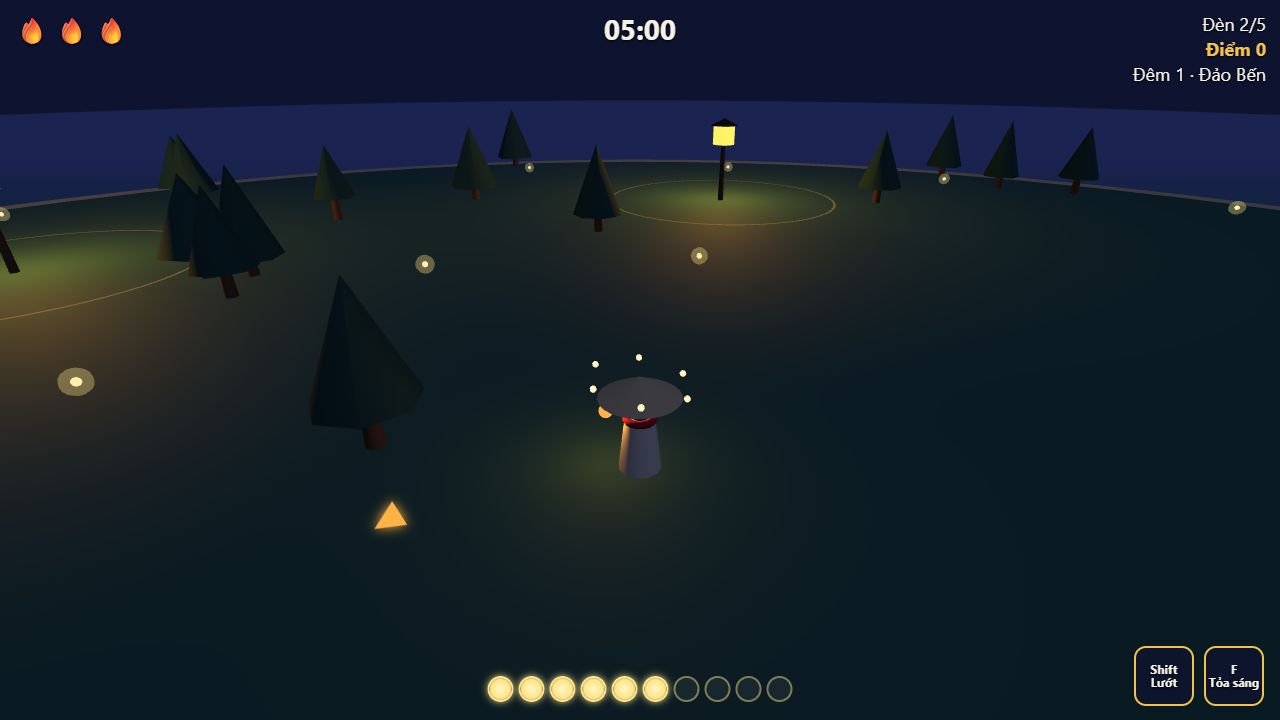
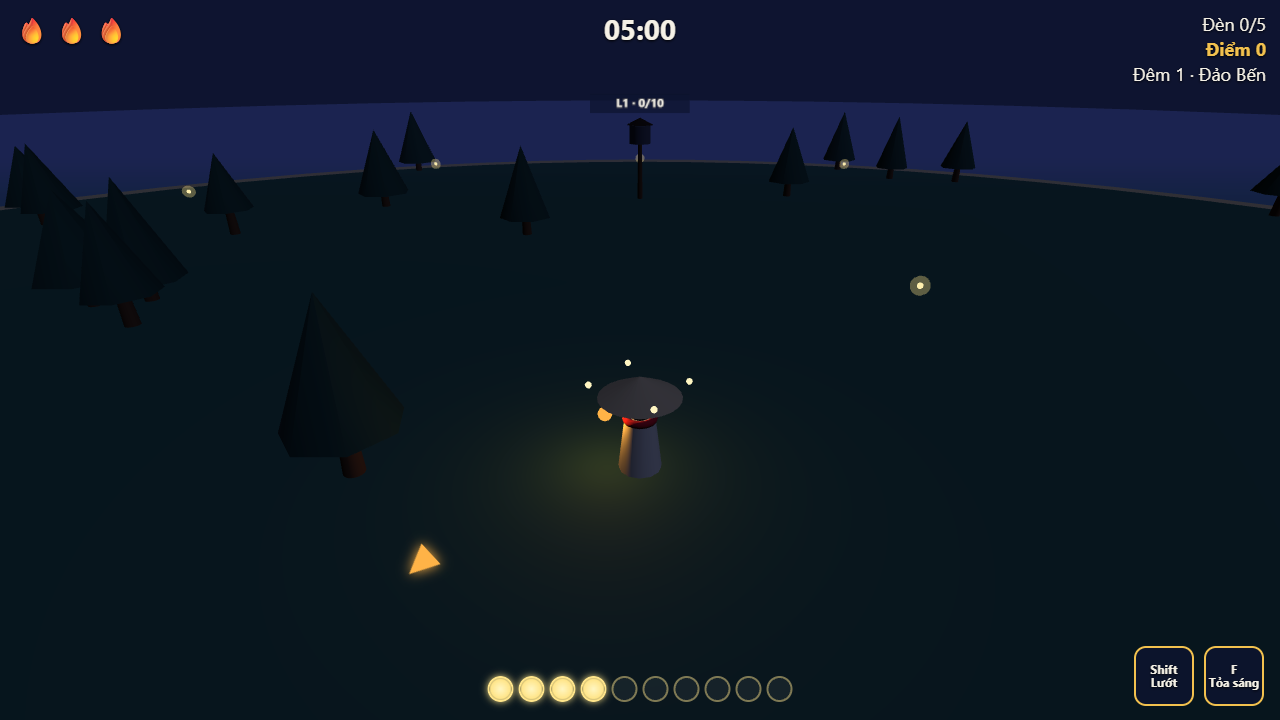
Docs: board Phase 2 cross-check, palette + camera fixes, refreshed screenshots

diff --git a/docs/notes/phase-2.md b/docs/notes/phase-2.md
@@ -92,3 +92,9 @@
 - **Sửa:** quy tắc thuần `src/game/lanternLook.js` — chỉ đèn `lit` mới phát sáng/chiếu/hiện vòng an toàn; đèn chưa sáng giữ màu tắt #5B5F6E và có nhãn "L2 · 6/10" kích thước cố định trên màn hình; thông báo khi nạp ghi "còn thiếu N đom đóm".
 - **Kiểm chứng:** `tests/ui.test.mjs` (hồi quy: 0, 1, 6, 9/10 không phát sáng), ảnh [lantern-progress.png](../proof/phase-2/screenshots/lantern-progress.png) (L1 đã thắp sáng + vòng, L2 6/10 tối + nhãn).
 - **Bài học:** test headless chỉ chứng minh luật đúng; cách hiển thị trạng thái cũng là yêu cầu ("đèn sáng/đèn tắt" có màu chuẩn trong ticket) và cần kiểm tra riêng.
+
+## 7. Đối chiếu lại với tab Phase 2 trên lab board (ảnh chụp người dùng gửi)
+
+- Nội dung tab **trùng khớp** bản Ticket-02 đã dán (số chuẩn, bản đồ, Phần 3, Contract v1.1, DoD). Không có yêu cầu nào bị bỏ sót.
+- Khi rà bảng màu: mặt tầng 1/2 Đêm 3 và ván cầu Đêm 2 dùng màu biến thể lệch > 10% so với cỏ #2F5D50 / gỗ #6B4A2F → đổi về màu chuẩn; bảng màu tách ra `src/game/palette.js` và có test so với bảng của ticket (`tests/ui.test.mjs`).
+- Camera trượt từ (0,0,0) tới sau lưng Mây khi vào Đêm mới / hồi sinh (ở Đêm 3 điểm đó nằm trong tháp → khung hình đầu trống). Sửa: camera nhảy thẳng tới vị trí khi vào Đêm, hồi sinh hoặc lệch > 25 m.

diff --git a/docs/proof/phase-2/results.md b/docs/proof/phase-2/results.md
@@ -1,6 +1,6 @@
 # phase-2 — generated verification results
 
-> Generated by `npm run verify -- phase-2` on 2026-11-20T08:35:27.719Z (Node v24.18.0, win32 x64).
+> Generated by `npm run verify -- phase-2` on 2026-11-20T08:39:21.967Z (Node v24.18.0, win32 x64).
 > Do not edit by hand. Each scenario folder holds the exact `scenario.json`, `inputs.json` and headless `out.jsonl`.
 
 ## Acceptance scenarios (real headless CLI)
@@ -60,4 +60,4 @@ Seed 1234, 3600 ticks, same inputs, run twice: sha256 `aff41201a5ce103f…` vs `
 
 ## Full test suite (`npm test`)
 
-Exit code 0 — ℹ tests 75, ℹ pass 75, ℹ fail 0. Full output: [test-report.txt](test-report.txt)
+Exit code 0 — ℹ tests 77, ℹ pass 77, ℹ fail 0. Full output: [test-report.txt](test-report.txt)
